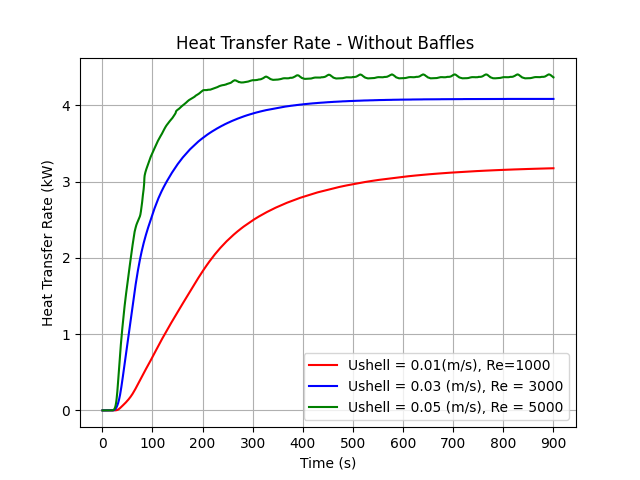
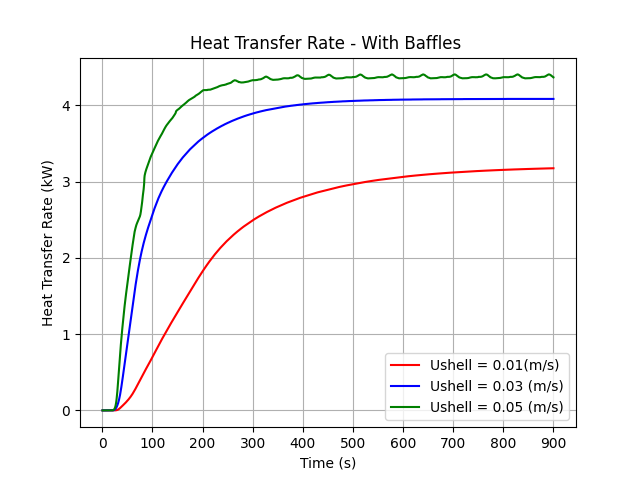
Fixing pictures for water

Changed region(s): [[0.4688, 0.75, 0.875, 0.875], [0.2812, 0.0625, 0.75, 0.125]]

diff --git a/shellTubeHEX/results/transient/water-water/dataAnalysis/scripts/temperaturePlot.py b/shellTubeHEX/results/transient/water-water/dataAnalysis/scripts/temperaturePlot.py
@@ -25,20 +25,20 @@ time900NoBaffles = data4["Time"]
 
 # Choose the data to plot (Please select pairs 1-4, 2-5, 3-6)
 
-#plt.plot(time900, temperature1, label='Ushell = 0.01(m/s), Re = 1000', color='red')
-#plt.plot(time900, temperature2, label='Ushell = 0.03 (m/s), Re = 3000', color='green')
-plt.plot(time900, temperature3, label='Ushell = 0.05 (m/s), Re = 5000', color='blue')
-#plt.plot(time900NoBaffles, temperature4, label='Ushell = 0.01(m/s), Re = 1000, No Baffles', color='blue')
-#plt.plot(time900, temperature5, label='Ushell = 0.03 (m/s), Re = 3000, No Baffles', color='purple')
-plt.plot(time900, temperature6, label='Ushell = 0.05 (m/s), Re = 5000, No Baffles', color='orange')
+#plt.plot(time900, temperature1, label='Baffles', color='red')
+#plt.plot(time900, temperature2, label='Baffles', color='blue')
+plt.plot(time900, temperature3, label='Baffles', color='green')
+#plt.plot(time900NoBaffles, temperature4, label='No Baffles', color='black')
+#plt.plot(time900, temperature5, label='No Baffles', color='orange')
+plt.plot(time900, temperature6, label='No Baffles', color='purple')
 
 plt.legend()
 plt.xlabel('Time (s)')
 plt.ylabel('Temperature (K)')
-plt.title('Outlet Average Temperature')
+plt.title('Outlet Average Temperature - Shell inlet velocity = 0.05 (m/s)')
 plt.xticks(range(0, int(max(time900)) + 100, 100))
-
-plt.savefig('temperaturePlot0-05.png')
+fileName ="TemperatureBaffleNoBaffleRe5000"
+plt.savefig('/home/henrique/OpenFOAM/henrique-11/run/heat-exchanger-simulation/shellTubeHEX/results/transient/water-water/dataAnalysis/plots/Re5000/'+fileName+'.png')
 plt.show()
 
 

diff --git a/shellTubeHEX/results/transient/water-water/dataAnalysis/scripts/heatTransferRatePlot.py b/shellTubeHEX/results/transient/water-water/dataAnalysis/scripts/heatTransferRatePlot.py
@@ -43,19 +43,19 @@ Q4 = cp * density * ((temperature4 - initialTemperature) * velocity4) * area * 1
 Q5 = cp * density * ((temperature5 - initialTemperature) * velocity5) * area * 1/1000 # W to kW
 Q6 = cp * density * ((temperature6 - initialTemperature) * velocity6) * area * 1/1000 # W to kW
 
-
-plt.plot(time900, Q1, label='Ushell = 0.01(m/s), Re=1000', color='red')
-plt.plot(time900, Q2, label='Ushell = 0.03 (m/s), Re = 3000', color='blue')
-plt.plot(time900, Q3, label='Ushell = 0.05 (m/s), Re = 5000', color='green')
-#plt.plot(time900NoBaffles, Q4, label='Ushell = 0.01(m/s), Re = 1000, No Baffles', color='red')
-#plt.plot(time900, Q5, label='Ushell = 0.03 (m/s), Re = 3000, No Baffles', color='blue')
-#plt.plot(time900, Q6, label='Ushell = 0.05 (m/s), Re = 5000, No Baffles', color='green')
+plt.plot(time900, Q1, label='Ushell = 0.01(m/s)', color='red')
+plt.plot(time900, Q2, label='Ushell = 0.03 (m/s)', color='blue')
+plt.plot(time900, Q3, label='Ushell = 0.05 (m/s)', color='green')
+#plt.plot(time900NoBaffles, Q4, label='Ushell = 0.01(m/s), No Baffles', color='red')
+#plt.plot(time900, Q5, label='Ushell = 0.03 (m/s), No Baffles', color='blue')
+#plt.plot(time900, Q6, label='Ushell = 0.05 (m/s), No Baffles', color='green')
 
 
 plt.legend()
 plt.xlabel('Time (s)')
 plt.ylabel('Heat Transfer Rate (kW)')
-plt.title('Heat Transfer Rate - Without Baffles ')
+plt.title('Heat Transfer Rate - With Baffles ')
+#plt.title('Heat Transfer Rate - Without Baffles ')
 plt.xticks(range(0, int(max(time900)) + 100, 100))
 
 plt.grid(True)

diff --git a/shellTubeHEX/results/transient/water-water/dataAnalysis/scripts/temperatureDiferencePlot.py b/shellTubeHEX/results/transient/water-water/dataAnalysis/scripts/temperatureDiferencePlot.py
@@ -29,19 +29,17 @@ time900NoBaffles = data4["Time"]
 
 # Choose the data to plot (Please select pairs 1-4, 2-5, 3-6)
 
-plt.plot(time900, diff1, label='Ushell = 0.01(m/s), Re = 1000', color='red')
-plt.plot(time900, diff2, label='Ushell = 0.03 (m/s), Re = 3000', color='green')
-plt.plot(time900, diff3, label='Ushell = 0.05 (m/s), Re = 5000', color='blue')
-#plt.plot(time900NoBaffles, temperature4, label='Ushell = 0.01(m/s), Re = 1000, No Baffles', color='blue')
-#plt.plot(time900, temperature5, label='Ushell = 0.03 (m/s), Re = 3000, No Baffles', color='purple')
-#plt.plot(time900, temperature6, label='Ushell = 0.05 (m/s), Re = 5000, No Baffles', color='orange')
+plt.plot(time900, diff1, label='Ushell = 0.01(m/s)', color='red')
+plt.plot(time900, diff2, label='Ushell = 0.03 (m/s)', color='blue')
+plt.plot(time900, diff3, label='Ushell = 0.05 (m/s)', color='green')
 
 plt.legend()
 plt.xlabel('Time (s)')
 plt.ylabel('Temperature (K)')
 plt.title('Outlet Average Temperature - Baffles vs No Baffles')
 plt.xticks(range(0, int(max(time900)) + 100, 100))
-plt.savefig('temperatureComparisonPlot.png')
-plt.show()
 
+fileName ="temperatureDifferenceBaffleNoBaffle"
+plt.savefig('/home/henrique/OpenFOAM/henrique-11/run/heat-exchanger-simulation/shellTubeHEX/results/transient/water-water/dataAnalysis/plots/general/'+fileName+'.png')
+plt.show()
 
